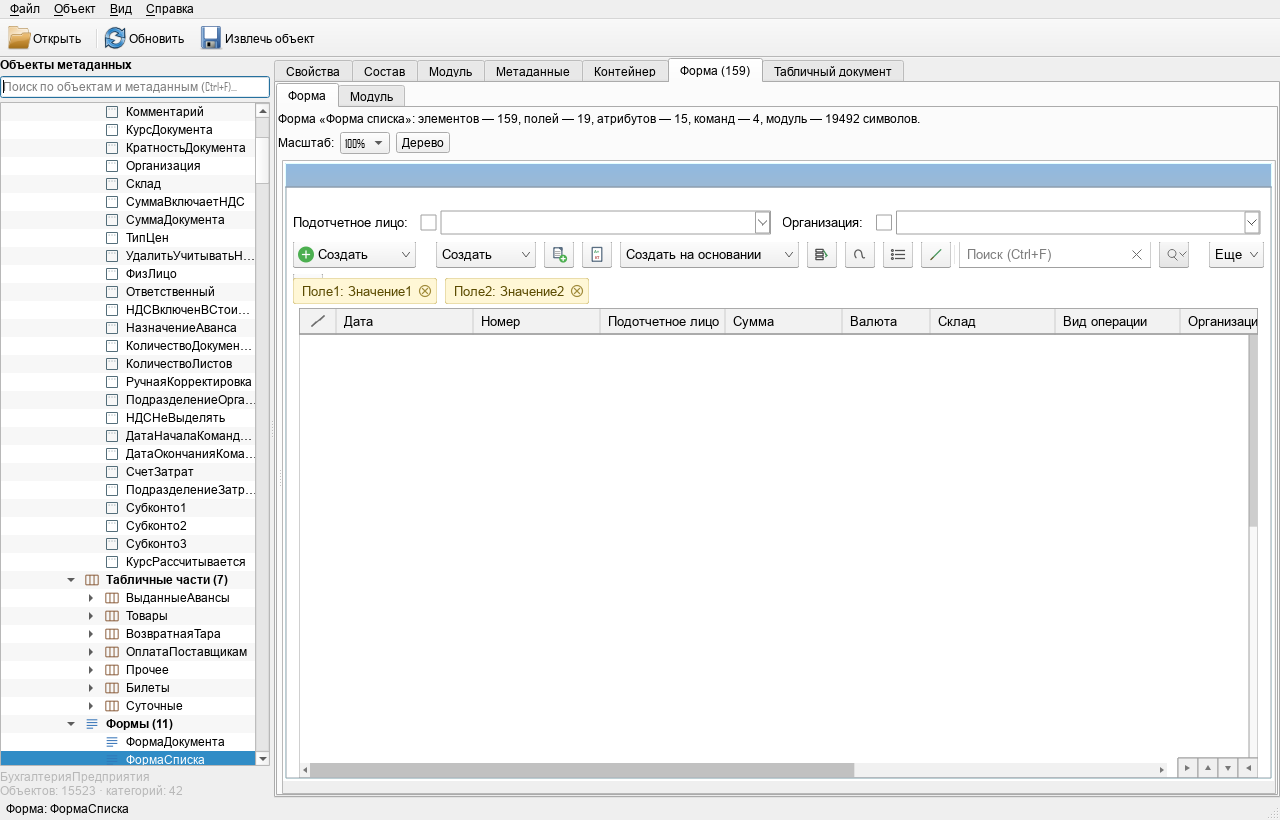
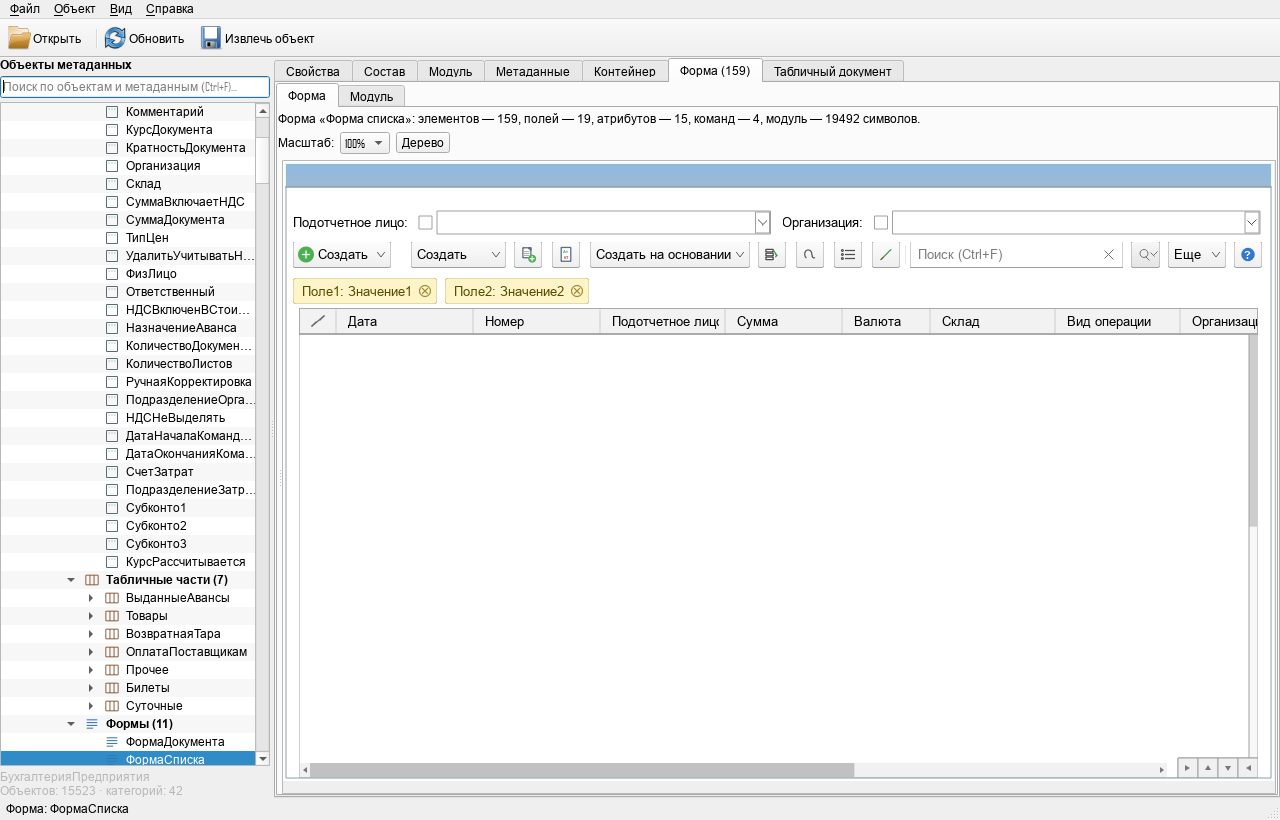
fix(forms): полная командная панель и отступы эталона

diff --git a/src/gui/FormView.cpp b/src/gui/FormView.cpp
@@ -412,7 +412,7 @@ private:
         const QString label = fieldLabel(item);
         if (label.isEmpty())
             return 0.0;
-        return std::min(210.0, m_metrics.horizontalAdvance(label + QStringLiteral(":")) + 10.0);
+        return std::min(210.0, m_metrics.horizontalAdvance(label + QStringLiteral(":")) + 8.0);
     }
 
     double preferredWidth(const v8reader::FormItem &item) const
@@ -430,19 +430,19 @@ private:
                 && icon != ButtonIcon::Create && icon != ButtonIcon::CreateBasedOn
                 && icon != ButtonIcon::Print;
             if (iconOnly)
-                return 30.0;
+                return 28.0;
             double width = m_metrics.horizontalAdvance(buttonTitle(item)) + 16.0;
             if (icon != ButtonIcon::None)
                 width += 22.0;
             if (item.name == QStringLiteral("Создать"))
-                width += 35.0;
+                width += 10.0;
             return std::min(250.0, width);
         }
         case Type::Search:
             if (item.name.contains(QStringLiteral("СтрокаПоиска")))
-                return 190.0;
+                return 212.0;
             if (item.name.contains(QStringLiteral("УправлениеПоиском")))
-                return 40.0;
+                return 28.0;
             return 40.0;
         case Type::Table:
             return 340.0;
@@ -456,13 +456,15 @@ private:
                     && icon != ButtonIcon::CreateBasedOn
                     && icon != ButtonIcon::Print;
                 if (iconOnly)
-                    return 30.0;
+                    return 28.0;
                 const QString title = item.synonym.isEmpty()
                     ? humanizeCommand(item.name) : item.synonym;
                 if (item.name == QStringLiteral("Создать2"))
-                    return 100.0;
+                    return 95.0;
+                if (item.name == QStringLiteral("СоздатьНаОсновании"))
+                    return 160.0;
                 if (item.name == QStringLiteral("Еще"))
-                    return 55.0;
+                    return 58.0;
                 return std::max(64.0,
                     m_metrics.horizontalAdvance(title) + 44.0);
             }
@@ -1141,7 +1143,7 @@ private:
         double labelW = forcedLabelWidth;
         if (labelW <= 0.0) {
             labelW = std::min(210.0,
-                m_metrics.horizontalAdvance(label + QStringLiteral(":")) + 10.0);
+                m_metrics.horizontalAdvance(label + QStringLiteral(":")) + 8.0);
         }
         labelW = std::min(labelW, rect.width() * 0.7);
 

diff --git a/src/gui/controls/FieldControl.cpp b/src/gui/controls/FieldControl.cpp
@@ -50,13 +50,13 @@ void paintField(QPainter &painter, const FieldVisual &visual,
         }
     }
     if (visual.checkBox) {
-        const QRectF box(x + 1.0, rect.top() + (rect.height() - 15.0) / 2.0,
-                         15.0, 15.0);
+        const QRectF box(x + 1.0, rect.top() + (rect.height() - 13.0) / 2.0,
+                         13.0, 13.0);
         painter.setPen(FormStyle::fieldBorder);
         painter.setBrush(Qt::white);
         painter.drawRect(box);
         painter.setBrush(Qt::NoBrush);
-        x += 21.0;
+        x += 19.0;
         if (visual.checkboxOnly)
             return;
     }

diff --git a/src/gui/controls/StaticControl.cpp b/src/gui/controls/StaticControl.cpp
@@ -18,8 +18,8 @@ void paintText(QPainter &painter, const TextVisual &visual,
 void paintFilterChip(QPainter &painter, const ChipVisual &visual)
 {
     const QRectF &rect = visual.rect;
-    painter.setPen(QColor(214, 196, 128));
-    painter.setBrush(QColor(255, 247, 214));
+    painter.setPen(QColor(207, 192, 124));
+    painter.setBrush(QColor(253, 245, 199));
     painter.drawRoundedRect(rect, 3.0, 3.0);
     painter.setBrush(Qt::NoBrush);
     painter.setPen(QColor(90, 74, 0));

diff --git a/src/gui/controls/TableControl.cpp b/src/gui/controls/TableControl.cpp
@@ -74,7 +74,7 @@ void paintTable(QPainter &painter, const TableVisual &visual,
         painter.setPen(FormStyle::text);
         const QString text = metrics.elidedText(columns.at(i), Qt::ElideRight,
                                                 int(width) - 8);
-        painter.drawText(cell.adjusted(8, 0, -6, 0),
+        painter.drawText(cell.adjusted(12, 0, -6, 0),
                          Qt::AlignLeft | Qt::AlignVCenter, text);
         columnX += width;
     }

diff --git a/CHANGELOG.md b/CHANGELOG.md
@@ -112,6 +112,9 @@
   сетки и шапка #F2F2F2.
 - Таблица получила отступ 6 px от края формы, как на скриншоте; кнопки
   «Создать» расширены под размер эталона.
+- Командная панель полностью помещается в одну строку: уточнены ширины
+  «Создать на основании», поиска, «Еще» и «?»; чекбоксы и отступы заголовков
+  приближены к эталону, чипы отборов — к его цвету.
 - В формах элементов справочников добавлены стандартные команды
   «Записать и закрыть» и «Записать»; командная панель таких форм
   определяется и без отдельной группы кнопок.
